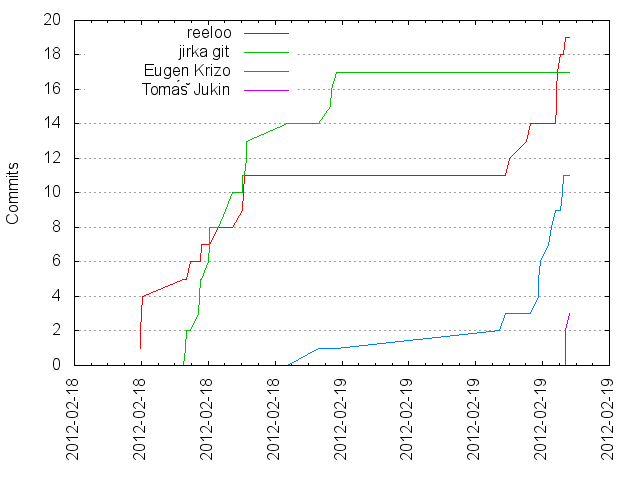
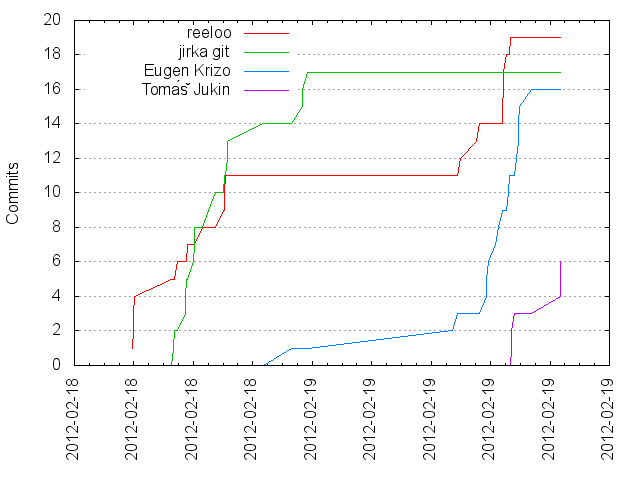
Generated git repository statistics

diff --git a/GADCPrague_stats/activity.html b/GADCPrague_stats/activity.html
@@ -4,7 +4,7 @@
 <head>
 	<title>GitStats - Nameday-Reminder</title>
 	<link rel="stylesheet" href="gitstats.css" type="text/css" />
-	<meta name="generator" content="GitStats 3bb7cd6" />
+	<meta name="generator" content="GitStats 01363b2" />
 	<script type="text/javascript" src="sortable.js"></script>
 </head>
 <body>
@@ -22,27 +22,27 @@
 
 <h2><a href="#weekly_activity" name="weekly_activity">Weekly activity</a></h2>
 
-<p>Last 32 weeks</p><table class="noborders"><tr><td style="text-align: center; vertical-align: bottom">0<div style="display: block; background-color: red; width: 20px; height: 1px"></div></td><td style="text-align: center; vertical-align: bottom">0<div style="display: block; background-color: red; width: 20px; height: 1px"></div></td><td style="text-align: center; vertical-align: bottom">0<div style="display: block; background-color: red; width: 20px; height: 1px"></div></td><td style="text-align: center; vertical-align: bottom">0<div style="display: block; background-color: red; width: 20px; height: 1px"></div></td><td style="text-align: center; vertical-align: bottom">0<div style="display: block; background-color: red; width: 20px; height: 1px"></div></td><td style="text-align: center; vertical-align: bottom">0<div style="display: block; background-color: red; width: 20px; height: 1px"></div></td><td style="text-align: center; vertical-align: bottom">0<div style="display: block; background-color: red; width: 20px; height: 1px"></div></td><td style="text-align: center; vertical-align: bottom">0<div style="display: block; background-color: red; width: 20px; height: 1px"></div></td><td style="text-align: center; vertical-align: bottom">0<div style="display: block; background-color: red; width: 20px; height: 1px"></div></td><td style="text-align: center; vertical-align: bottom">0<div style="display: block; background-color: red; width: 20px; height: 1px"></div></td><td style="text-align: center; vertical-align: bottom">0<div style="display: block; background-color: red; width: 20px; height: 1px"></div></td><td style="text-align: center; vertical-align: bottom">0<div style="display: block; background-color: red; width: 20px; height: 1px"></div></td><td style="text-align: center; vertical-align: bottom">0<div style="display: block; background-color: red; width: 20px; height: 1px"></div></td><td style="text-align: center; vertical-align: bottom">0<div style="display: block; background-color: red; width: 20px; height: 1px"></div></td><td style="text-align: center; vertical-align: bottom">0<div style="display: block; background-color: red; width: 20px; height: 1px"></div></td><td style="text-align: center; vertical-align: bottom">0<div style="display: block; background-color: red; width: 20px; height: 1px"></div></td><td style="text-align: center; vertical-align: bottom">0<div style="display: block; background-color: red; width: 20px; height: 1px"></div></td><td style="text-align: center; vertical-align: bottom">0<div style="display: block; background-color: red; width: 20px; height: 1px"></div></td><td style="text-align: center; vertical-align: bottom">0<div style="display: block; background-color: red; width: 20px; height: 1px"></div></td><td style="text-align: center; vertical-align: bottom">0<div style="display: block; background-color: red; width: 20px; height: 1px"></div></td><td style="text-align: center; vertical-align: bottom">0<div style="display: block; background-color: red; width: 20px; height: 1px"></div></td><td style="text-align: center; vertical-align: bottom">0<div style="display: block; background-color: red; width: 20px; height: 1px"></div></td><td style="text-align: center; vertical-align: bottom">0<div style="display: block; background-color: red; width: 20px; height: 1px"></div></td><td style="text-align: center; vertical-align: bottom">0<div style="display: block; background-color: red; width: 20px; height: 1px"></div></td><td style="text-align: center; vertical-align: bottom">0<div style="display: block; background-color: red; width: 20px; height: 1px"></div></td><td style="text-align: center; vertical-align: bottom">0<div style="display: block; background-color: red; width: 20px; height: 1px"></div></td><td style="text-align: center; vertical-align: bottom">0<div style="display: block; background-color: red; width: 20px; height: 1px"></div></td><td style="text-align: center; vertical-align: bottom">0<div style="display: block; background-color: red; width: 20px; height: 1px"></div></td><td style="text-align: center; vertical-align: bottom">0<div style="display: block; background-color: red; width: 20px; height: 1px"></div></td><td style="text-align: center; vertical-align: bottom">0<div style="display: block; background-color: red; width: 20px; height: 1px"></div></td><td style="text-align: center; vertical-align: bottom">0<div style="display: block; background-color: red; width: 20px; height: 1px"></div></td><td style="text-align: center; vertical-align: bottom">50<div style="display: block; background-color: red; width: 20px; height: 200px"></div></td></tr><tr><td>32</td><td>31</td><td>30</td><td>29</td><td>28</td><td>27</td><td>26</td><td>25</td><td>24</td><td>23</td><td>22</td><td>21</td><td>20</td><td>19</td><td>18</td><td>17</td><td>16</td><td>15</td><td>14</td><td>13</td><td>12</td><td>11</td><td>10</td><td>9</td><td>8</td><td>7</td><td>6</td><td>5</td><td>4</td><td>3</td><td>2</td><td>1</td></tr></table>
+<p>Last 32 weeks</p><table class="noborders"><tr><td style="text-align: center; vertical-align: bottom">0<div style="display: block; background-color: red; width: 20px; height: 1px"></div></td><td style="text-align: center; vertical-align: bottom">0<div style="display: block; background-color: red; width: 20px; height: 1px"></div></td><td style="text-align: center; vertical-align: bottom">0<div style="display: block; background-color: red; width: 20px; height: 1px"></div></td><td style="text-align: center; vertical-align: bottom">0<div style="display: block; background-color: red; width: 20px; height: 1px"></div></td><td style="text-align: center; vertical-align: bottom">0<div style="display: block; background-color: red; width: 20px; height: 1px"></div></td><td style="text-align: center; vertical-align: bottom">0<div style="display: block; background-color: red; width: 20px; height: 1px"></div></td><td style="text-align: center; vertical-align: bottom">0<div style="display: block; background-color: red; width: 20px; height: 1px"></div></td><td style="text-align: center; vertical-align: bottom">0<div style="display: block; background-color: red; width: 20px; height: 1px"></div></td><td style="text-align: center; vertical-align: bottom">0<div style="display: block; background-color: red; width: 20px; height: 1px"></div></td><td style="text-align: center; vertical-align: bottom">0<div style="display: block; background-color: red; width: 20px; height: 1px"></div></td><td style="text-align: center; vertical-align: bottom">0<div style="display: block; background-color: red; width: 20px; height: 1px"></div></td><td style="text-align: center; vertical-align: bottom">0<div style="display: block; background-color: red; width: 20px; height: 1px"></div></td><td style="text-align: center; vertical-align: bottom">0<div style="display: block; background-color: red; width: 20px; height: 1px"></div></td><td style="text-align: center; vertical-align: bottom">0<div style="display: block; background-color: red; width: 20px; height: 1px"></div></td><td style="text-align: center; vertical-align: bottom">0<div style="display: block; background-color: red; width: 20px; height: 1px"></div></td><td style="text-align: center; vertical-align: bottom">0<div style="display: block; background-color: red; width: 20px; height: 1px"></div></td><td style="text-align: center; vertical-align: bottom">0<div style="display: block; background-color: red; width: 20px; height: 1px"></div></td><td style="text-align: center; vertical-align: bottom">0<div style="display: block; background-color: red; width: 20px; height: 1px"></div></td><td style="text-align: center; vertical-align: bottom">0<div style="display: block; background-color: red; width: 20px; height: 1px"></div></td><td style="text-align: center; vertical-align: bottom">0<div style="display: block; background-color: red; width: 20px; height: 1px"></div></td><td style="text-align: center; vertical-align: bottom">0<div style="display: block; background-color: red; width: 20px; height: 1px"></div></td><td style="text-align: center; vertical-align: bottom">0<div style="display: block; background-color: red; width: 20px; height: 1px"></div></td><td style="text-align: center; vertical-align: bottom">0<div style="display: block; background-color: red; width: 20px; height: 1px"></div></td><td style="text-align: center; vertical-align: bottom">0<div style="display: block; background-color: red; width: 20px; height: 1px"></div></td><td style="text-align: center; vertical-align: bottom">0<div style="display: block; background-color: red; width: 20px; height: 1px"></div></td><td style="text-align: center; vertical-align: bottom">0<div style="display: block; background-color: red; width: 20px; height: 1px"></div></td><td style="text-align: center; vertical-align: bottom">0<div style="display: block; background-color: red; width: 20px; height: 1px"></div></td><td style="text-align: center; vertical-align: bottom">0<div style="display: block; background-color: red; width: 20px; height: 1px"></div></td><td style="text-align: center; vertical-align: bottom">0<div style="display: block; background-color: red; width: 20px; height: 1px"></div></td><td style="text-align: center; vertical-align: bottom">0<div style="display: block; background-color: red; width: 20px; height: 1px"></div></td><td style="text-align: center; vertical-align: bottom">0<div style="display: block; background-color: red; width: 20px; height: 1px"></div></td><td style="text-align: center; vertical-align: bottom">58<div style="display: block; background-color: red; width: 20px; height: 200px"></div></td></tr><tr><td>32</td><td>31</td><td>30</td><td>29</td><td>28</td><td>27</td><td>26</td><td>25</td><td>24</td><td>23</td><td>22</td><td>21</td><td>20</td><td>19</td><td>18</td><td>17</td><td>16</td><td>15</td><td>14</td><td>13</td><td>12</td><td>11</td><td>10</td><td>9</td><td>8</td><td>7</td><td>6</td><td>5</td><td>4</td><td>3</td><td>2</td><td>1</td></tr></table>
 <h2><a href="#hour_of_day" name="hour_of_day">Hour of Day</a></h2>
 
 <table><tr><th>Hour</th><th>0</th><th>1</th><th>2</th><th>3</th><th>4</th><th>5</th><th>6</th><th>7</th><th>8</th><th>9</th><th>10</th><th>11</th><th>12</th><th>13</th><th>14</th><th>15</th><th>16</th><th>17</th><th>18</th><th>19</th><th>20</th><th>21</th><th>22</th><th>23</th></tr>
-<tr><th>Commits</th><td style="background-color: rgb(175, 0, 0)">3</td><td>0</td><td>0</td><td>0</td><td>0</td><td>0</td><td>0</td><td>0</td><td>0</td><td>0</td><td style="background-color: rgb(159, 0, 0)">2</td><td style="background-color: rgb(143, 0, 0)">1</td><td style="background-color: rgb(239, 0, 0)">7</td><td style="background-color: rgb(255, 0, 0)">8</td><td style="background-color: rgb(239, 0, 0)">7</td><td style="background-color: rgb(191, 0, 0)">4</td><td style="background-color: rgb(191, 0, 0)">4</td><td style="background-color: rgb(191, 0, 0)">4</td><td style="background-color: rgb(159, 0, 0)">2</td><td style="background-color: rgb(223, 0, 0)">6</td><td>0</td><td style="background-color: rgb(143, 0, 0)">1</td><td>0</td><td style="background-color: rgb(143, 0, 0)">1</td></tr>
-<tr><th>%</th><td style="background-color: rgb(175, 0, 0)">6.00</td><td>0.00</td><td>0.00</td><td>0.00</td><td>0.00</td><td>0.00</td><td>0.00</td><td>0.00</td><td>0.00</td><td>0.00</td><td style="background-color: rgb(159, 0, 0)">4.00</td><td style="background-color: rgb(143, 0, 0)">2.00</td><td style="background-color: rgb(239, 0, 0)">14.00</td><td style="background-color: rgb(255, 0, 0)">16.00</td><td style="background-color: rgb(239, 0, 0)">14.00</td><td style="background-color: rgb(191, 0, 0)">8.00</td><td style="background-color: rgb(191, 0, 0)">8.00</td><td style="background-color: rgb(191, 0, 0)">8.00</td><td style="background-color: rgb(159, 0, 0)">4.00</td><td style="background-color: rgb(223, 0, 0)">12.00</td><td>0.00</td><td style="background-color: rgb(143, 0, 0)">2.00</td><td>0.00</td><td style="background-color: rgb(143, 0, 0)">2.00</td></tr></table><img src="hour_of_day.png" alt="Hour of Day" />
+<tr><th>Commits</th><td style="background-color: rgb(161, 0, 0)">3</td><td>0</td><td>0</td><td>0</td><td>0</td><td>0</td><td>0</td><td>0</td><td>0</td><td>0</td><td style="background-color: rgb(150, 0, 0)">2</td><td style="background-color: rgb(138, 0, 0)">1</td><td style="background-color: rgb(208, 0, 0)">7</td><td style="background-color: rgb(220, 0, 0)">8</td><td style="background-color: rgb(255, 0, 0)">11</td><td style="background-color: rgb(185, 0, 0)">5</td><td style="background-color: rgb(173, 0, 0)">4</td><td style="background-color: rgb(208, 0, 0)">7</td><td style="background-color: rgb(150, 0, 0)">2</td><td style="background-color: rgb(196, 0, 0)">6</td><td>0</td><td style="background-color: rgb(138, 0, 0)">1</td><td>0</td><td style="background-color: rgb(138, 0, 0)">1</td></tr>
+<tr><th>%</th><td style="background-color: rgb(161, 0, 0)">5.17</td><td>0.00</td><td>0.00</td><td>0.00</td><td>0.00</td><td>0.00</td><td>0.00</td><td>0.00</td><td>0.00</td><td>0.00</td><td style="background-color: rgb(150, 0, 0)">3.45</td><td style="background-color: rgb(138, 0, 0)">1.72</td><td style="background-color: rgb(208, 0, 0)">12.07</td><td style="background-color: rgb(220, 0, 0)">13.79</td><td style="background-color: rgb(255, 0, 0)">18.97</td><td style="background-color: rgb(185, 0, 0)">8.62</td><td style="background-color: rgb(173, 0, 0)">6.90</td><td style="background-color: rgb(208, 0, 0)">12.07</td><td style="background-color: rgb(150, 0, 0)">3.45</td><td style="background-color: rgb(196, 0, 0)">10.34</td><td>0.00</td><td style="background-color: rgb(138, 0, 0)">1.72</td><td>0.00</td><td style="background-color: rgb(138, 0, 0)">1.72</td></tr></table><img src="hour_of_day.png" alt="Hour of Day" />
 <h2><a href="#day_of_week" name="day_of_week">Day of Week</a></h2>
 
-<div class="vtable"><table><tr><th>Day</th><th>Total (%)</th></tr><tr><th>Mon</th><td>0</td></tr><tr><th>Tue</th><td>0</td></tr><tr><th>Wed</th><td>0</td></tr><tr><th>Thu</th><td>0</td></tr><tr><th>Fri</th><td>0</td></tr><tr><th>Sat</th><td>26 (52.00%)</td></tr><tr><th>Sun</th><td>24 (48.00%)</td></tr></table></div><img src="day_of_week.png" alt="Day of Week" />
+<div class="vtable"><table><tr><th>Day</th><th>Total (%)</th></tr><tr><th>Mon</th><td>0</td></tr><tr><th>Tue</th><td>0</td></tr><tr><th>Wed</th><td>0</td></tr><tr><th>Thu</th><td>0</td></tr><tr><th>Fri</th><td>0</td></tr><tr><th>Sat</th><td>26 (44.83%)</td></tr><tr><th>Sun</th><td>32 (55.17%)</td></tr></table></div><img src="day_of_week.png" alt="Day of Week" />
 <h2><a href="#hour_of_week" name="hour_of_week">Hour of Week</a></h2>
 
-<table><tr><th>Weekday</th><th>0</th><th>1</th><th>2</th><th>3</th><th>4</th><th>5</th><th>6</th><th>7</th><th>8</th><th>9</th><th>10</th><th>11</th><th>12</th><th>13</th><th>14</th><th>15</th><th>16</th><th>17</th><th>18</th><th>19</th><th>20</th><th>21</th><th>22</th><th>23</th></tr><tr><th>Mon</th><td></td><td></td><td></td><td></td><td></td><td></td><td></td><td></td><td></td><td></td><td></td><td></td><td></td><td></td><td></td><td></td><td></td><td></td><td></td><td></td><td></td><td></td><td></td><td></td></tr><tr><th>Tue</th><td></td><td></td><td></td><td></td><td></td><td></td><td></td><td></td><td></td><td></td><td></td><td></td><td></td><td></td><td></td><td></td><td></td><td></td><td></td><td></td><td></td><td></td><td></td><td></td></tr><tr><th>Wed</th><td></td><td></td><td></td><td></td><td></td><td></td><td></td><td></td><td></td><td></td><td></td><td></td><td></td><td></td><td></td><td></td><td></td><td></td><td></td><td></td><td></td><td></td><td></td><td></td></tr><tr><th>Thu</th><td></td><td></td><td></td><td></td><td></td><td></td><td></td><td></td><td></td><td></td><td></td><td></td><td></td><td></td><td></td><td></td><td></td><td></td><td></td><td></td><td></td><td></td><td></td><td></td></tr><tr><th>Fri</th><td></td><td></td><td></td><td></td><td></td><td></td><td></td><td></td><td></td><td></td><td></td><td></td><td></td><td></td><td></td><td></td><td></td><td></td><td></td><td></td><td></td><td></td><td></td><td></td></tr><tr><th>Sat</th><td></td><td></td><td></td><td></td><td></td><td></td><td></td><td></td><td></td><td></td><td></td><td></td><td style="background-color: rgb(163, 0, 0)">2</td><td style="background-color: rgb(163, 0, 0)">2</td><td></td><td style="background-color: rgb(200, 0, 0)">4</td><td style="background-color: rgb(200, 0, 0)">4</td><td style="background-color: rgb(200, 0, 0)">4</td><td style="background-color: rgb(163, 0, 0)">2</td><td style="background-color: rgb(236, 0, 0)">6</td><td></td><td style="background-color: rgb(145, 0, 0)">1</td><td></td><td style="background-color: rgb(145, 0, 0)">1</td></tr><tr><th>Sun</th><td style="background-color: rgb(181, 0, 0)">3</td><td></td><td></td><td></td><td></td><td></td><td></td><td></td><td></td><td></td><td style="background-color: rgb(163, 0, 0)">2</td><td style="background-color: rgb(145, 0, 0)">1</td><td style="background-color: rgb(218, 0, 0)">5</td><td style="background-color: rgb(236, 0, 0)">6</td><td style="background-color: rgb(255, 0, 0)">7</td><td></td><td></td><td></td><td></td><td></td><td></td><td></td><td></td><td></td></tr></table>
+<table><tr><th>Weekday</th><th>0</th><th>1</th><th>2</th><th>3</th><th>4</th><th>5</th><th>6</th><th>7</th><th>8</th><th>9</th><th>10</th><th>11</th><th>12</th><th>13</th><th>14</th><th>15</th><th>16</th><th>17</th><th>18</th><th>19</th><th>20</th><th>21</th><th>22</th><th>23</th></tr><tr><th>Mon</th><td></td><td></td><td></td><td></td><td></td><td></td><td></td><td></td><td></td><td></td><td></td><td></td><td></td><td></td><td></td><td></td><td></td><td></td><td></td><td></td><td></td><td></td><td></td><td></td></tr><tr><th>Tue</th><td></td><td></td><td></td><td></td><td></td><td></td><td></td><td></td><td></td><td></td><td></td><td></td><td></td><td></td><td></td><td></td><td></td><td></td><td></td><td></td><td></td><td></td><td></td><td></td></tr><tr><th>Wed</th><td></td><td></td><td></td><td></td><td></td><td></td><td></td><td></td><td></td><td></td><td></td><td></td><td></td><td></td><td></td><td></td><td></td><td></td><td></td><td></td><td></td><td></td><td></td><td></td></tr><tr><th>Thu</th><td></td><td></td><td></td><td></td><td></td><td></td><td></td><td></td><td></td><td></td><td></td><td></td><td></td><td></td><td></td><td></td><td></td><td></td><td></td><td></td><td></td><td></td><td></td><td></td></tr><tr><th>Fri</th><td></td><td></td><td></td><td></td><td></td><td></td><td></td><td></td><td></td><td></td><td></td><td></td><td></td><td></td><td></td><td></td><td></td><td></td><td></td><td></td><td></td><td></td><td></td><td></td></tr><tr><th>Sat</th><td></td><td></td><td></td><td></td><td></td><td></td><td></td><td></td><td></td><td></td><td></td><td></td><td style="background-color: rgb(150, 0, 0)">2</td><td style="background-color: rgb(150, 0, 0)">2</td><td></td><td style="background-color: rgb(173, 0, 0)">4</td><td style="background-color: rgb(173, 0, 0)">4</td><td style="background-color: rgb(173, 0, 0)">4</td><td style="background-color: rgb(150, 0, 0)">2</td><td style="background-color: rgb(196, 0, 0)">6</td><td></td><td style="background-color: rgb(138, 0, 0)">1</td><td></td><td style="background-color: rgb(138, 0, 0)">1</td></tr><tr><th>Sun</th><td style="background-color: rgb(161, 0, 0)">3</td><td></td><td></td><td></td><td></td><td></td><td></td><td></td><td></td><td></td><td style="background-color: rgb(150, 0, 0)">2</td><td style="background-color: rgb(138, 0, 0)">1</td><td style="background-color: rgb(185, 0, 0)">5</td><td style="background-color: rgb(196, 0, 0)">6</td><td style="background-color: rgb(255, 0, 0)">11</td><td style="background-color: rgb(138, 0, 0)">1</td><td></td><td style="background-color: rgb(161, 0, 0)">3</td><td></td><td></td><td></td><td></td><td></td><td></td></tr></table>
 <h2><a href="#month_of_year" name="month_of_year">Month of Year</a></h2>
 
-<div class="vtable"><table><tr><th>Month</th><th>Commits (%)</th></tr><tr><td>1</td><td>0 (0.00 %)</td></tr><tr><td>2</td><td>50 (100.00 %)</td></tr><tr><td>3</td><td>0 (0.00 %)</td></tr><tr><td>4</td><td>0 (0.00 %)</td></tr><tr><td>5</td><td>0 (0.00 %)</td></tr><tr><td>6</td><td>0 (0.00 %)</td></tr><tr><td>7</td><td>0 (0.00 %)</td></tr><tr><td>8</td><td>0 (0.00 %)</td></tr><tr><td>9</td><td>0 (0.00 %)</td></tr><tr><td>10</td><td>0 (0.00 %)</td></tr><tr><td>11</td><td>0 (0.00 %)</td></tr><tr><td>12</td><td>0 (0.00 %)</td></tr></table></div><img src="month_of_year.png" alt="Month of Year" />
+<div class="vtable"><table><tr><th>Month</th><th>Commits (%)</th></tr><tr><td>1</td><td>0 (0.00 %)</td></tr><tr><td>2</td><td>58 (100.00 %)</td></tr><tr><td>3</td><td>0 (0.00 %)</td></tr><tr><td>4</td><td>0 (0.00 %)</td></tr><tr><td>5</td><td>0 (0.00 %)</td></tr><tr><td>6</td><td>0 (0.00 %)</td></tr><tr><td>7</td><td>0 (0.00 %)</td></tr><tr><td>8</td><td>0 (0.00 %)</td></tr><tr><td>9</td><td>0 (0.00 %)</td></tr><tr><td>10</td><td>0 (0.00 %)</td></tr><tr><td>11</td><td>0 (0.00 %)</td></tr><tr><td>12</td><td>0 (0.00 %)</td></tr></table></div><img src="month_of_year.png" alt="Month of Year" />
 <h2><a href="#commits_by_year/month" name="commits_by_year/month">Commits by year/month</a></h2>
 
-<div class="vtable"><table><tr><th>Month</th><th>Commits</th><th>Lines added</th><th>Lines removed</th></tr><tr><td>2012-02</td><td>50</td><td>4412</td><td>2014</td></tr></table></div><img src="commits_by_year_month.png" alt="Commits by year/month" />
+<div class="vtable"><table><tr><th>Month</th><th>Commits</th><th>Lines added</th><th>Lines removed</th></tr><tr><td>2012-02</td><td>58</td><td>4594</td><td>2128</td></tr></table></div><img src="commits_by_year_month.png" alt="Commits by year/month" />
 <h2><a href="#commits_by_year" name="commits_by_year">Commits by Year</a></h2>
 
-<div class="vtable"><table><tr><th>Year</th><th>Commits (% of all)</th><th>Lines added</th><th>Lines removed</th></tr><tr><td>2012</td><td>50 (100.00%)</td><td>4412</td><td>2014</td></tr></table></div><img src="commits_by_year.png" alt="Commits by Year" />
+<div class="vtable"><table><tr><th>Year</th><th>Commits (% of all)</th><th>Lines added</th><th>Lines removed</th></tr><tr><td>2012</td><td>58 (100.00%)</td><td>4594</td><td>2128</td></tr></table></div><img src="commits_by_year.png" alt="Commits by Year" />
 <h2><a href="#commits_by_timezone" name="commits_by_timezone">Commits by Timezone</a></h2>
 
-<table><tr><th>Timezone</th><th>Commits</th><tr><th>+0100</th><td style="background-color: rgb(255, 0, 0)">50</td></tr></tr></table></body></html>
+<table><tr><th>Timezone</th><th>Commits</th><tr><th>+0100</th><td style="background-color: rgb(255, 0, 0)">58</td></tr></tr></table></body></html>

diff --git a/GADCPrague_stats/authors.html b/GADCPrague_stats/authors.html
@@ -4,7 +4,7 @@
 <head>
 	<title>GitStats - Nameday-Reminder</title>
 	<link rel="stylesheet" href="gitstats.css" type="text/css" />
-	<meta name="generator" content="GitStats 3bb7cd6" />
+	<meta name="generator" content="GitStats 01363b2" />
 	<script type="text/javascript" src="sortable.js"></script>
 </head>
 <body>
@@ -22,7 +22,7 @@
 
 <h2><a href="#list_of_authors" name="list_of_authors">List of Authors</a></h2>
 
-<table class="authors sortable" id="authors"><tr><th>Author</th><th>Commits (%)</th><th>+ lines</th><th>- lines</th><th>First commit</th><th>Last commit</th><th class="unsortable">Age</th><th>Active days</th><th># by commits</th></tr><tr><td>reeloo</td><td>19 (38.00%)</td><td>2099</td><td>945</td><td>2012-02-18</td><td>2012-02-19</td><td>1 day, 1:24:44</td><td>2</td><td>1</td></tr><tr><td>jirka git</td><td>17 (34.00%)</td><td>1383</td><td>1060</td><td>2012-02-18</td><td>2012-02-19</td><td>9:00:47</td><td>2</td><td>2</td></tr><tr><td>Eugen Krizo</td><td>11 (22.00%)</td><td>148</td><td>94</td><td>2012-02-18</td><td>2012-02-19</td><td>14:40:08</td><td>2</td><td>3</td></tr><tr><td>Tomáš Jukin</td><td>3 (6.00%)</td><td>915</td><td>0</td><td>2012-02-19</td><td>2012-02-19</td><td>0:13:16</td><td>1</td><td>4</td></tr></table>
+<table class="authors sortable" id="authors"><tr><th>Author</th><th>Commits (%)</th><th>+ lines</th><th>- lines</th><th>First commit</th><th>Last commit</th><th class="unsortable">Age</th><th>Active days</th><th># by commits</th></tr><tr><td>reeloo</td><td>19 (32.76%)</td><td>2099</td><td>945</td><td>2012-02-18</td><td>2012-02-19</td><td>1 day, 1:24:44</td><td>2</td><td>1</td></tr><tr><td>jirka git</td><td>17 (29.31%)</td><td>1383</td><td>1060</td><td>2012-02-18</td><td>2012-02-19</td><td>9:00:47</td><td>2</td><td>2</td></tr><tr><td>Eugen Krizo</td><td>16 (27.59%)</td><td>182</td><td>114</td><td>2012-02-18</td><td>2012-02-19</td><td>16:09:06</td><td>2</td><td>3</td></tr><tr><td>Tomáš Jukin</td><td>6 (10.34%)</td><td>1063</td><td>94</td><td>2012-02-19</td><td>2012-02-19</td><td>3:20:25</td><td>1</td><td>4</td></tr></table>
 <h2><a href="#cumulated_added_lines_of_code_per_author" name="cumulated_added_lines_of_code_per_author">Cumulated Added Lines of Code per Author</a></h2>
 
 <img src="lines_of_code_by_author.png" alt="Lines of code per Author" />
@@ -31,10 +31,10 @@
 <img src="commits_by_author.png" alt="Commits per Author" />
 <h2><a href="#author_of_month" name="author_of_month">Author of Month</a></h2>
 
-<table class="sortable" id="aom"><tr><th>Month</th><th>Author</th><th>Commits (%)</th><th class="unsortable">Next top 5</th><th>Number of authors</th></tr><tr><td>2012-02</td><td>reeloo</td><td>19 (38.00% of 50)</td><td>jirka git, Eugen Krizo, Tomáš Jukin</td><td>4</td></tr></table>
+<table class="sortable" id="aom"><tr><th>Month</th><th>Author</th><th>Commits (%)</th><th class="unsortable">Next top 5</th><th>Number of authors</th></tr><tr><td>2012-02</td><td>reeloo</td><td>19 (32.76% of 58)</td><td>jirka git, Eugen Krizo, Tomáš Jukin</td><td>4</td></tr></table>
 <h2><a href="#author_of_year" name="author_of_year">Author of Year</a></h2>
 
-<table class="sortable" id="aoy"><tr><th>Year</th><th>Author</th><th>Commits (%)</th><th class="unsortable">Next top 5</th><th>Number of authors</th></tr><tr><td>2012</td><td>reeloo</td><td>19 (38.00% of 50)</td><td>jirka git, Eugen Krizo, Tomáš Jukin</td><td>4</td></tr></table>
+<table class="sortable" id="aoy"><tr><th>Year</th><th>Author</th><th>Commits (%)</th><th class="unsortable">Next top 5</th><th>Number of authors</th></tr><tr><td>2012</td><td>reeloo</td><td>19 (32.76% of 58)</td><td>jirka git, Eugen Krizo, Tomáš Jukin</td><td>4</td></tr></table>
 <h2><a href="#commits_by_domains" name="commits_by_domains">Commits by Domains</a></h2>
 
-<div class="vtable"><table><tr><th>Domains</th><th>Total (%)</th></tr><tr><th>gmail.com</th><td>28 (56.00%)</td></tr><tr><th>reeloo.net</th><td>19 (38.00%)</td></tr><tr><th>jukin.cz</th><td>3 (6.00%)</td></tr></table></div><img src="domains.png" alt="Commits by Domains" /></body></html>
+<div class="vtable"><table><tr><th>Domains</th><th>Total (%)</th></tr><tr><th>gmail.com</th><td>33 (56.90%)</td></tr><tr><th>reeloo.net</th><td>19 (32.76%)</td></tr><tr><th>jukin.cz</th><td>6 (10.34%)</td></tr></table></div><img src="domains.png" alt="Commits by Domains" /></body></html>

diff --git a/GADCPrague_stats/files.html b/GADCPrague_stats/files.html
@@ -4,7 +4,7 @@
 <head>
 	<title>GitStats - Nameday-Reminder</title>
 	<link rel="stylesheet" href="gitstats.css" type="text/css" />
-	<meta name="generator" content="GitStats 3bb7cd6" />
+	<meta name="generator" content="GitStats 01363b2" />
 	<script type="text/javascript" src="sortable.js"></script>
 </head>
 <body>
@@ -20,11 +20,11 @@
 </ul>
 </div>
 <dl>
-<dt>Total files</dt><dd>200</dd><dt>Total lines</dt><dd>2398</dd><dt>Average file size</dt><dd>8245.09 bytes</dd></dl>
+<dt>Total files</dt><dd>200</dd><dt>Total lines</dt><dd>2466</dd><dt>Average file size</dt><dd>3623.86 bytes</dd></dl>
 
 <h2><a href="#file_count_by_date" name="file_count_by_date">File count by date</a></h2>
 
 <img src="files_by_date.png" alt="Files by Date" />
 <h2><a href="#extensions" name="extensions">Extensions</a></h2>
 
-<table class="sortable" id="ext"><tr><th>Extension</th><th>Files (%)</th><th>Lines (%)</th><th>Lines/file</th></tr><tr><td></td><td>21 (10.50%)</td><td>319 (13.30%)</td><td>15</td></tr><tr><td>cache</td><td>1 (0.50%)</td><td>6 (0.25%)</td><td>6</td></tr><tr><td>cfg</td><td>1 (0.50%)</td><td>40 (1.67%)</td><td>40</td></tr><tr><td>css</td><td>1 (0.50%)</td><td>145 (6.05%)</td><td>145</td></tr><tr><td>csv</td><td>2 (1.00%)</td><td>732 (30.53%)</td><td>366</td></tr><tr><td>dat</td><td>10 (5.00%)</td><td>138 (5.75%)</td><td>13</td></tr><tr><td>gif</td><td>3 (1.50%)</td><td>6 (0.25%)</td><td>2</td></tr><tr><td>html</td><td>6 (3.00%)</td><td>184 (7.67%)</td><td>30</td></tr><tr><td>java</td><td>7 (3.50%)</td><td>512 (21.35%)</td><td>73</td></tr><tr><td>js</td><td>1 (0.50%)</td><td>324 (13.51%)</td><td>324</td></tr><tr><td>mp4</td><td>1 (0.50%)</td><td>3710 (154.71%)</td><td>3710</td></tr><tr><td>plot</td><td>10 (5.00%)</td><td>118 (4.92%)</td><td>11</td></tr><tr><td>png</td><td>129 (64.50%)</td><td>2605 (108.63%)</td><td>20</td></tr><tr><td>prefs</td><td>1 (0.50%)</td><td>5 (0.21%)</td><td>5</td></tr><tr><td>properties</td><td>1 (0.50%)</td><td>11 (0.46%)</td><td>11</td></tr><tr><td>xml</td><td>5 (2.50%)</td><td>131 (5.46%)</td><td>26</td></tr></table></body></html>
+<table class="sortable" id="ext"><tr><th>Extension</th><th>Files (%)</th><th>Lines (%)</th><th>Lines/file</th></tr><tr><td></td><td>21 (10.50%)</td><td>319 (12.94%)</td><td>15</td></tr><tr><td>cache</td><td>1 (0.50%)</td><td>36 (1.46%)</td><td>36</td></tr><tr><td>cfg</td><td>1 (0.50%)</td><td>40 (1.62%)</td><td>40</td></tr><tr><td>css</td><td>1 (0.50%)</td><td>145 (5.88%)</td><td>145</td></tr><tr><td>csv</td><td>2 (1.00%)</td><td>732 (29.68%)</td><td>366</td></tr><tr><td>dat</td><td>10 (5.00%)</td><td>192 (7.79%)</td><td>19</td></tr><tr><td>gif</td><td>3 (1.50%)</td><td>6 (0.24%)</td><td>2</td></tr><tr><td>html</td><td>6 (3.00%)</td><td>184 (7.46%)</td><td>30</td></tr><tr><td>java</td><td>7 (3.50%)</td><td>526 (21.33%)</td><td>75</td></tr><tr><td>js</td><td>1 (0.50%)</td><td>324 (13.14%)</td><td>324</td></tr><tr><td>mp4</td><td>1 (0.50%)</td><td>0 (0.00%)</td><td>0</td></tr><tr><td>plot</td><td>10 (5.00%)</td><td>118 (4.79%)</td><td>11</td></tr><tr><td>png</td><td>129 (64.50%)</td><td>2616 (106.08%)</td><td>20</td></tr><tr><td>prefs</td><td>1 (0.50%)</td><td>5 (0.20%)</td><td>5</td></tr><tr><td>properties</td><td>1 (0.50%)</td><td>11 (0.45%)</td><td>11</td></tr><tr><td>xml</td><td>5 (2.50%)</td><td>131 (5.31%)</td><td>26</td></tr></table></body></html>

diff --git a/GADCPrague_stats/index.html b/GADCPrague_stats/index.html
@@ -4,7 +4,7 @@
 <head>
 	<title>GitStats - Nameday-Reminder</title>
 	<link rel="stylesheet" href="gitstats.css" type="text/css" />
-	<meta name="generator" content="GitStats 3bb7cd6" />
+	<meta name="generator" content="GitStats 01363b2" />
 	<script type="text/javascript" src="sortable.js"></script>
 </head>
 <body>
@@ -19,5 +19,5 @@
 <li><a href="tags.html">Tags</a></li>
 </ul>
 </div>
-<dl><dt>Project name</dt><dd>Nameday-Reminder</dd><dt>Generated</dt><dd>2012-02-19 17:40:27 (in 9 seconds)</dd><dt>Generator</dt><dd><a href="http://gitstats.sourceforge.net/">GitStats</a> (version 3bb7cd6), git version 1.7.1.1, gnuplot 4.4 patchlevel 4</dd><dt>Report Period</dt><dd>2012-02-18 12:56:04 to 2012-02-19 14:36:14</dd><dt>Age</dt><dd>2 days, 2 active days (100.00%)</dd><dt>Total Files</dt><dd>200</dd><dt>Total Lines of Code</dt><dd>2398 (4412 added, 2014 removed)</dd><dt>Total Commits</dt><dd>50 (average 25.0 commits per active day, 25.0 per all days)</dd><dt>Authors</dt><dd>4 (average 12.5 commits per author)</dd></dl></body>
+<dl><dt>Project name</dt><dd>Nameday-Reminder</dd><dt>Generated</dt><dd>2012-02-19 17:48:45 (in 11 seconds)</dd><dt>Generator</dt><dd><a href="http://gitstats.sourceforge.net/">GitStats</a> (version 01363b2), git version 1.7.1.1, gnuplot 4.4 patchlevel 4</dd><dt>Report Period</dt><dd>2012-02-18 12:56:04 to 2012-02-19 17:43:23</dd><dt>Age</dt><dd>2 days, 2 active days (100.00%)</dd><dt>Total Files</dt><dd>200</dd><dt>Total Lines of Code</dt><dd>2466 (4594 added, 2128 removed)</dd><dt>Total Commits</dt><dd>58 (average 29.0 commits per active day, 29.0 per all days)</dd><dt>Authors</dt><dd>4 (average 14.5 commits per author)</dd></dl></body>
 </html>

diff --git a/GADCPrague_stats/lines.html b/GADCPrague_stats/lines.html
@@ -4,7 +4,7 @@
 <head>
 	<title>GitStats - Nameday-Reminder</title>
 	<link rel="stylesheet" href="gitstats.css" type="text/css" />
-	<meta name="generator" content="GitStats 3bb7cd6" />
+	<meta name="generator" content="GitStats 01363b2" />
 	<script type="text/javascript" src="sortable.js"></script>
 </head>
 <body>
@@ -20,7 +20,7 @@
 </ul>
 </div>
 <dl>
-<dt>Total lines</dt><dd>2398</dd></dl>
+<dt>Total lines</dt><dd>2466</dd></dl>
 
 <h2><a href="#lines_of_code" name="lines_of_code">Lines of Code</a></h2>
 

diff --git a/GADCPrague_stats/tags.html b/GADCPrague_stats/tags.html
@@ -4,7 +4,7 @@
 <head>
 	<title>GitStats - Nameday-Reminder</title>
 	<link rel="stylesheet" href="gitstats.css" type="text/css" />
-	<meta name="generator" content="GitStats 3bb7cd6" />
+	<meta name="generator" content="GitStats 01363b2" />
 	<script type="text/javascript" src="sortable.js"></script>
 </head>
 <body>
